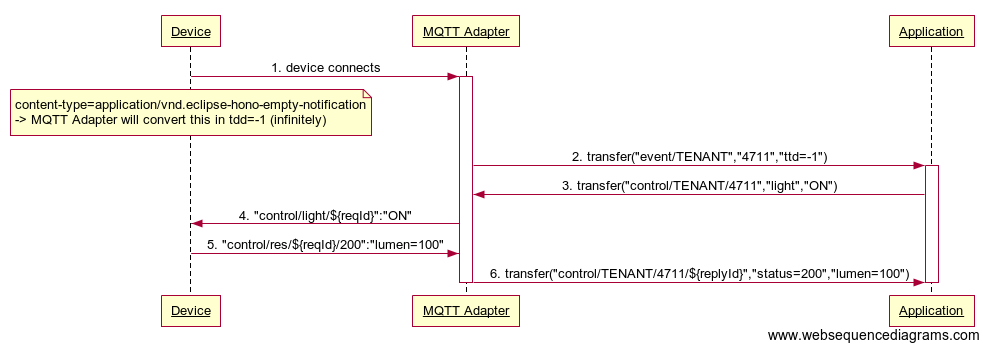
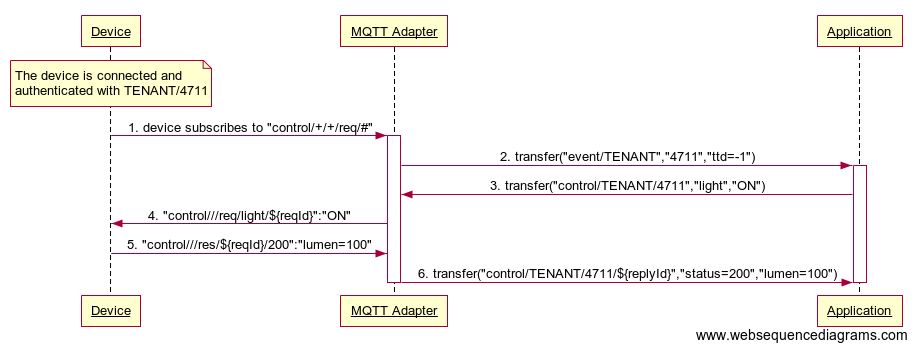
Updated Command and Control concept page.

diff --git a/site/content/concepts/command-and-control.md b/site/content/concepts/command-and-control.md
@@ -7,7 +7,7 @@ Since Hono 0.6 *Business applications* can send commands to devices following th
  
 <!--more-->
 
-This concept refers to the first implementation of Command and Control in Hono 0.6. With new versions this will be extended and documentation parts will be also transferred to the User Guide sections (e.g. HTTP Adapter and MQTT Adapter).
+This concept refers to the first implementation of Command and Control. With new versions this will be extended and documentation parts will be also transferred to the User Guide sections (e.g. HTTP Adapter and MQTT Adapter).
 
 {{% note %}}
 This feature is available now as a first fully working version but is considered to possibly have some unknown issues that may not make it
@@ -37,14 +37,6 @@ The HTTP Adapter gets the command and writes it in the response of the devices `
 
  The `hono-cmd` is the command that should be executed by the device. Typically this command needs to be known by the device and the payload may contain additional details of the command. The `hono-cmd-req-id` is needed for the command response to correlate it. It has to be sent back from the device to the adapter in a following operation (5). 
  
-{{% note %}}
-In Hono 0.6 an application that sends a command does not get a response back from the device as shown in (5), (6) and (7). Instead the adapter sends a successful response without payload after sending the command to the device.
-
-From Hono 0.7 on, the Hono command client (that is provided for applications that send a command) waits for a response from the
-device until the command is to be considered successful. If no such command response was received in the timeout (that can be
-set at the command client), an exception signalling the expiry is thrown.  
-{{% /note %}}
-
 The device needs to respond to the command (5), to inform the business application about the success. For this purpose 
 specific URIs are definded in [HTTP Adapter]({{< relref "user-guide/http-adapter.md#sending-a-response-to-a-previously-received-command" >}}).
 
@@ -59,21 +51,16 @@ replied with `400 Bad request`.
 
 ## Command & Control over MQTT Adapter
 
-IMPORTANT: **Not implemented in Hono 0.6 and just a DRAFT**
+IMPORTANT: **Not implemented and just a DRAFT**
 
-When the (authenticated) device is connected to the MQTT Adapter it receives commands on the topic:  
+When the device is connected to the MQTT Adapter it receives commands on the topic:
 
-* `control/req/${command}/${hono-cmd-req-id}`
+* `control/[tenant]/[device-id]/req/<req-id>/<command>`
+
+It depends on the authentication of the device if it is needed to give `tenant` and `device-id` at the subscription or just a `+`. 
 
 The response of the command will be send by the device to 
 
-* `control/res/${hono-cmd-req-id}/${status}`
-
-
-If the device is not authenticated:
-
-* `control/req/${tenant-id}/${device-id}/${command}/${hono-cmd-req-id}` (request topic)
-* `control/res/${tenant-id}/${device-id}/${hono-cmd-req-id}/${status}` (response topic) 
-
+* `control/[tenant]/[device-id]/res/<req-id>/<status>`
 
 ![Command & Control over MQTT Adapter](../command_control_concept_mqtt.png) 
